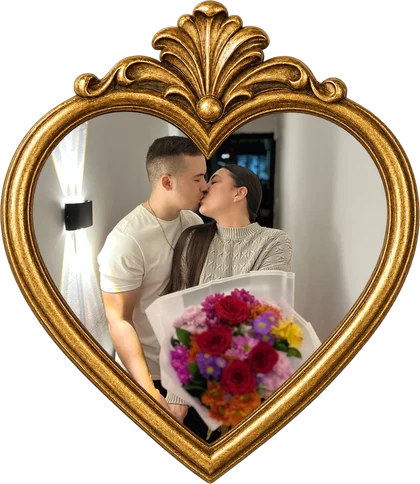
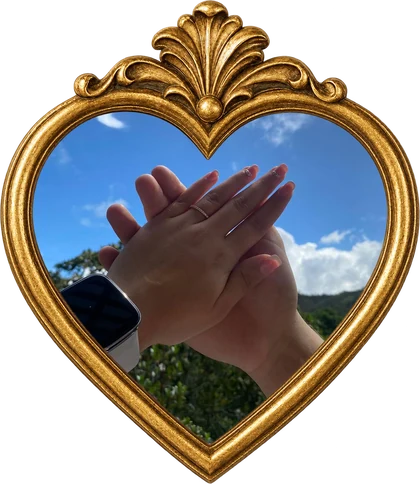
Fotos nuevas en el trío del cierre
us2 y us3 reemplazadas por el cliente. Los .webp se regeneran recortando al
bbox de alfa con umbral 8 —el PNG trae un halo casi transparente alrededor del
marco y con getbbox() a secas el recorte se descuadra—, a 420x484 y con
quality=88, alpha_quality=100, method=6. La receta, verificada contra us1.webp
byte a byte, queda anotada en CLAUDE.md, que no la tenía.

diff --git a/index.html b/index.html
@@ -280,10 +280,10 @@
     <img class="closing__lamps right" src="assets/lamps.png" alt="" aria-hidden="true" loading="lazy" width="920" height="237" /> -->
     <div class="wrap reveal">
       <div class="closing__gallery">
-        <img class="closing__photo closing__photo--left" src="assets/opt/us1.webp" width="420" height="484" loading="lazy" decoding="async"
-             alt="Juan Pablo, de rodillas, le propone matrimonio a Juliana con el anillo en la mano, al atardecer sobre las montañas." />
-        <img class="closing__photo closing__photo--center" src="assets/opt/us3.webp" width="420" height="484" loading="lazy" decoding="async"
+        <img class="closing__photo closing__photo--left" src="assets/opt/us3.webp" width="420" height="484" loading="lazy" decoding="async"
              alt="Juan Pablo y Juliana se besan mientras ella sostiene un ramo de flores de colores." />
+        <img class="closing__photo closing__photo--center" src="assets/opt/us1.webp" width="420" height="484" loading="lazy" decoding="async"
+             alt="Juan Pablo, de rodillas, le propone matrimonio a Juliana con el anillo en la mano, al atardecer sobre las montañas." />
         <img class="closing__photo closing__photo--right" src="assets/opt/us2.webp" width="420" height="484" loading="lazy" decoding="async"
              alt="Juan Pablo y Juliana, de gala, posan junto a un sillón blanco en una fiesta." />
       </div>

diff --git a/CLAUDE.md b/CLAUDE.md
@@ -245,6 +245,24 @@ sin eso el navegador tiene que descargar el archivo entero antes de pintar un fo
 quita la pista de audio: el `<video>` va `muted`, así que no se oye nunca. Si no hay ffmpeg a mano,
 `python -m pip install imageio-ffmpeg` trae el binario (`imageio_ffmpeg.get_ffmpeg_exe()`).
 
+`assets/us/us1-3.png` son las tres fotos del cierre, ya montadas en su marco de corazón (1254x1254
+con transparencia). La página carga `assets/opt/us*.webp`, que se regeneran así —el recorte va con
+**umbral de alfa 8**, no con `getbbox()` a secas: el PNG trae un halo casi transparente alrededor
+del marco que descuadra el recorte—:
+
+```python
+from PIL import Image
+for n in ('us1', 'us2', 'us3'):
+    im = Image.open(f'assets/us/{n}.png').convert('RGBA')
+    bb = im.getchannel('A').point(lambda v: 255 if v > 8 else 0).getbbox()   # (93, 10, 1161, 1243)
+    im.crop(bb).resize((420, 484), Image.LANCZOS).save(
+        f'assets/opt/{n}.webp', 'WEBP', quality=88, alpha_quality=100, method=6)
+```
+
+Los 420x484 son el doble del ancho máximo en CSS (224 px la del centro) y son también los atributos
+`width`/`height` de los tres `<img>` del cierre: si el marco cambia de proporción hay que
+actualizarlos. En el HTML el orden es us1, **us3**, us2 —la del centro es la tercera—.
+
 `assets/petals/petal1-6.png` son los originales de la lluvia de pétalos; la página carga
 `assets/opt/petal*.webp`, recortados a su bbox de alfa y reducidos a 200 px de lado mayor
 (`quality=88, alpha_quality=100`) — se pintan entre 22 y 52 px, así que 200 px cubre pantallas
